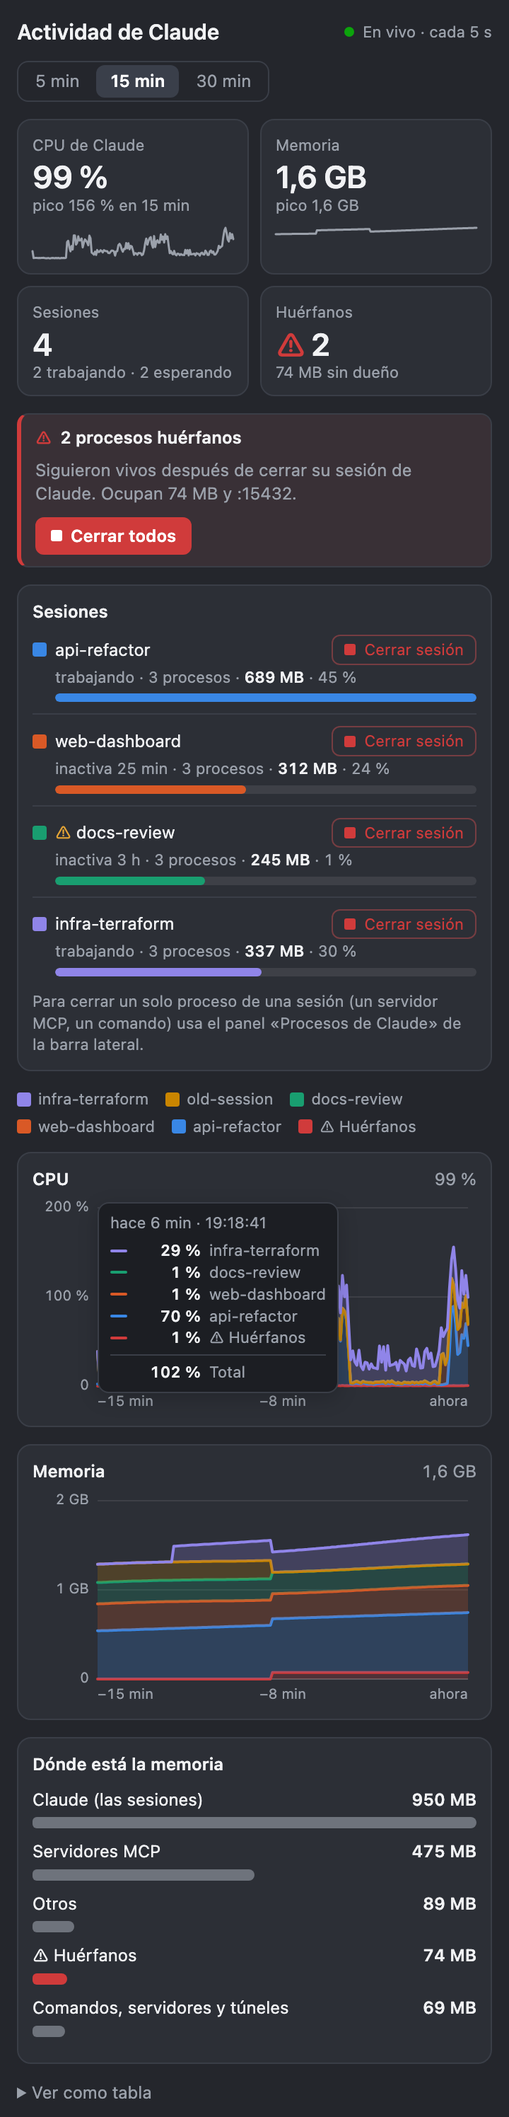
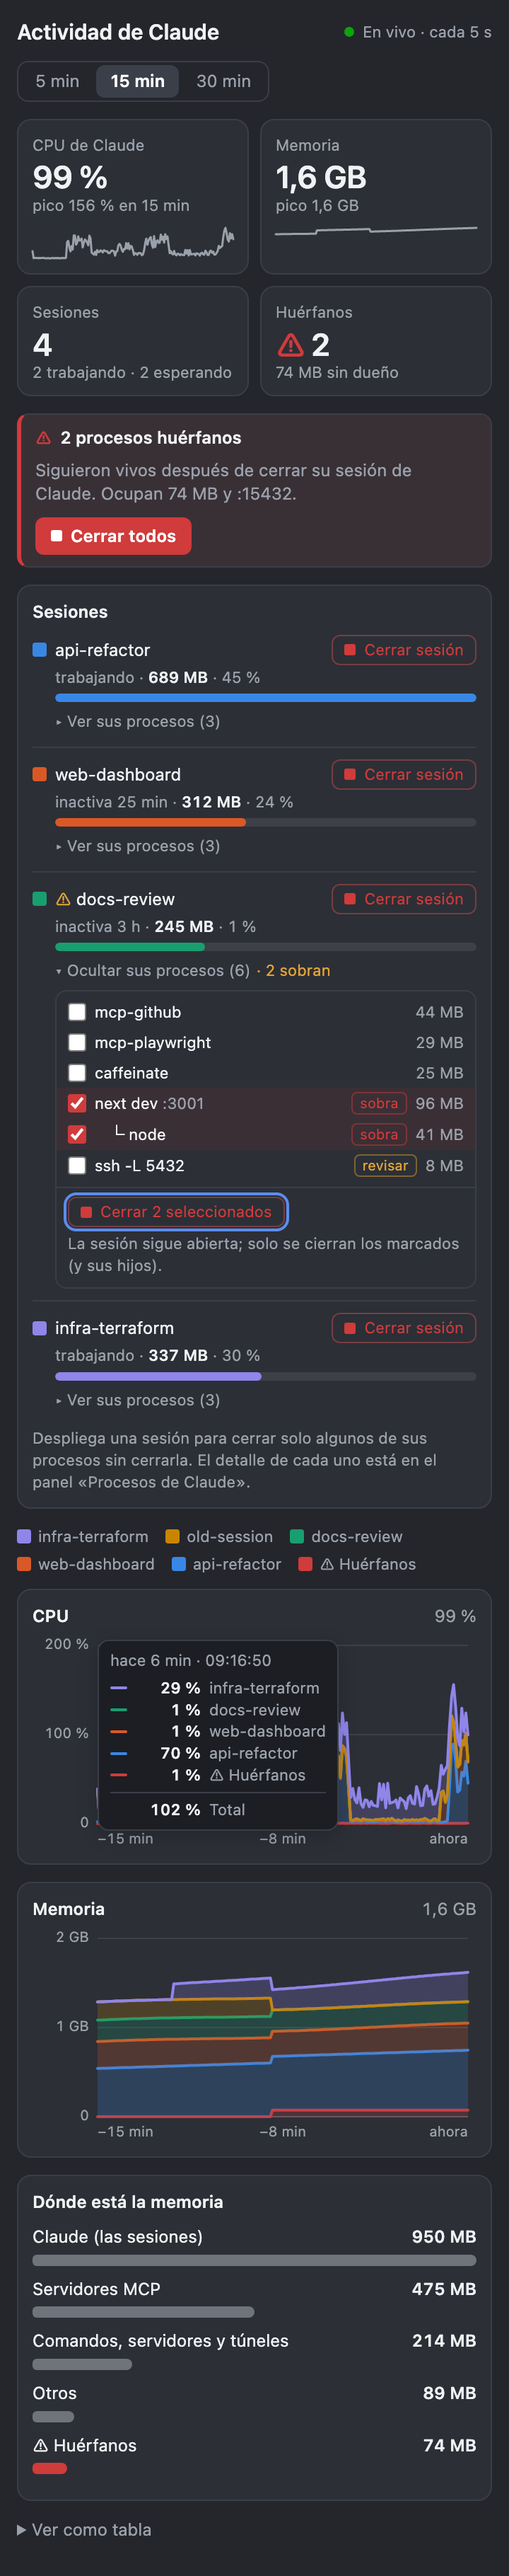
Close only some of a session's processes from the Actividad panel
- Each session in the charts panel can expand its process list, with a
  checkbox per process and "sobra"/"revisar" tags; the selected ones (and
  their children) are closed after an in-place confirmation, and the
  session stays open.
- "Marcar los que sobran" ticks the processes nothing uses, in both panels.
- README screenshot and docs; version 0.3.0.

diff --git a/src/graficas.ts b/src/graficas.ts
@@ -14,6 +14,7 @@
 // vecinos, y los huérfanos llevan siempre ⚠ y su nombre. En claro, aguamarina y amarillo quedan
 // bajo 3:1 contra el fondo: por eso hay leyenda siempre y vista de tabla.
 import {
+  confirmarDeSesion,
   confirmarForzar,
   confirmarHuerfanos,
   confirmarSesion,
@@ -38,7 +39,7 @@ import {
   type Medida,
   type Serie
 } from './series'
-import type { Foto, Historial, Muestra, MuestraSesion, Sesion } from './tipos'
+import type { Foto, Historial, Muestra, MuestraSesion, Proceso, Sesion } from './tipos'
 
 const RANGOS = [5, 15, 30] as const
 const CLAVE_RANGO = 'graficas.rango'
@@ -57,6 +58,11 @@ let cerrando: string | null = null
 let hecho: Hecho | null = null
 /** El `data-foco` que debe quedar enfocado después del próximo repintado. */
 let enfocarDespues: string | null = null
+/** El botón que abrió la confirmación en curso: ahí vuelve el foco si se cancela. */
+let volverA: string | null = null
+/** Sesiones con su lista de procesos desplegada, y los procesos marcados en cada una (por pid). */
+const desplegadas = new Set<string>()
+const marcados = new Map<string, Set<number>>()
 
 // ---------------------------------------------------------------------------------------------
 // Estilos
@@ -153,6 +159,28 @@ th { font-weight: 600; color: var(--tinta-2); }
 .fila-sesion .aviso { color: var(--cuidado); }
 .fila-sesion + .fila-sesion { border-top: 1px solid var(--orca-border); padding-top: 8px; }
 .pie { font-size: 11px; color: var(--tinta-2); margin: 10px 0 0; }
+.desplegar {
+  font: inherit; font-size: 11px; color: var(--tinta-2); background: none; border: 0; border-radius: 4px;
+  padding: 2px 4px; margin: 4px 0 0 12px; cursor: pointer; display: inline-flex; gap: 4px; align-items: center;
+}
+.desplegar:hover { color: var(--tinta); background: var(--orca-accent); }
+.desplegar:focus-visible { outline: 2px solid var(--orca-ring); outline-offset: 1px; }
+.desplegar .sobran { color: var(--cuidado); }
+.procs { margin: 4px 0 0 16px; border: 1px solid var(--orca-border); border-radius: 8px; padding: 4px 0; }
+.proc { display: flex; align-items: center; gap: 6px; padding: 3px 8px; font-size: 11px; cursor: pointer; }
+.proc:hover { background: var(--orca-accent); }
+.proc.marcado { background: color-mix(in srgb, var(--peligro) 9%, transparent); }
+.proc input { margin: 0; flex: none; accent-color: var(--peligro); }
+.proc input:disabled + span { opacity: 0.6; }
+.proc .pnombre { flex: 1; min-width: 0; overflow: hidden; text-overflow: ellipsis; white-space: nowrap; }
+.proc .pnombre small { color: var(--tinta-2); font-size: 11px; }
+.proc .pmem { color: var(--tinta-2); font-variant-numeric: tabular-nums; white-space: nowrap; }
+.etiqueta { font-size: 10px; line-height: 14px; padding: 0 5px; border-radius: 4px; border: 1px solid; white-space: nowrap; flex: none; }
+.etiqueta.cerrar { color: var(--peligro); border-color: color-mix(in srgb, var(--peligro) 45%, transparent); }
+.etiqueta.revisar { color: var(--cuidado); border-color: color-mix(in srgb, var(--cuidado) 45%, transparent); }
+.procs .botones { padding: 6px 8px 2px; margin-top: 4px; border-top: 1px solid var(--orca-border); }
+.procs .ayuda { font-size: 11px; color: var(--tinta-2); padding: 2px 8px 4px; margin: 0; }
+.procs + .caja, .procs + .cerrando { margin-left: 16px; }
 .caja {
   border: 1px solid var(--orca-border); border-left: 3px solid var(--tinta-2); border-radius: 8px;
   padding: 8px 10px; margin-top: 8px; background: var(--superficie); font-size: 12px; overflow-wrap: anywhere;
@@ -585,7 +613,7 @@ function pintarSesiones(ultima: Muestra | undefined, colores: Record<string, num
     el(
       'p',
       { class: 'pie' },
-      'Para cerrar un solo proceso de una sesión (un servidor MCP, un comando) usa el panel «Procesos de Claude» de la barra lateral.'
+      'Despliega una sesión para cerrar solo algunos de sus procesos sin cerrarla. El detalle de cada uno está en el panel «Procesos de Claude».'
     )
   )
   raiz.sesiones.replaceChildren(...hijos)
@@ -619,12 +647,100 @@ function filaSesion(x: Sesion, enVivo: MuestraSesion | undefined, colores: Recor
     el(
       'div',
       { class: 'sub' },
-      `${estadoCorto(x, Date.now())} · ${plural(x.procesos.length, 'proceso', 'procesos')} · `,
+      // Cuántos procesos lo dice «Ver sus procesos (N)» justo debajo.
+      `${estadoCorto(x, Date.now())} · ${x.procesos.length ? '' : 'sin procesos · '}`,
       el('b', {}, memoria(mem)),
       ` · ${pct(cpu)}`
     ),
     el('div', { class: 'pista' }, el('div', { style: `width:${Math.min(1, mem / max) * 100}%;background:${c}` })),
+    x.procesos.length ? desplegar(x, clave) : null,
+    x.procesos.length && desplegadas.has(clave) ? listaProcesos(x, clave, home) : null,
     accion(clave)
+  )
+}
+
+/** «▸ Ver sus procesos (11) · 2 sobran»: abre o cierra la lista de procesos de la sesión. */
+function desplegar(x: Sesion, clave: string): HTMLElement {
+  const abierta = desplegadas.has(clave)
+  const sobran = x.procesos.filter((p) => p.veredicto === 'cerrar').length
+  const b = el(
+    'button',
+    { type: 'button', class: 'desplegar', 'aria-expanded': String(abierta), 'data-foco': `ver-${clave}` },
+    `${abierta ? '▾ Ocultar' : '▸ Ver'} sus procesos (${x.procesos.length})`,
+    sobran ? el('span', { class: 'sobran' }, `· ${sobran} ${sobran === 1 ? 'sobra' : 'sobran'}`) : null
+  )
+  b.addEventListener('click', () => {
+    if (abierta) desplegadas.delete(clave)
+    else desplegadas.add(clave)
+    pintar()
+  })
+  return b
+}
+
+/** El veredicto de cada proceso, en palabras: «sobra» no le sirve a nadie, «revisar» decide tú. */
+const ETIQUETA: Partial<Record<Proceso['veredicto'], string>> = { cerrar: 'sobra', revisar: 'revisar' }
+
+/** Los procesos de la sesión con una casilla cada uno, para cerrar solo esos y dejar la sesión. */
+function listaProcesos(x: Sesion, clave: string, home: string): HTMLElement {
+  const vivos = new Set(x.procesos.map((p) => p.pid))
+  const marc = new Set([...(marcados.get(clave) ?? [])].filter((pid) => vivos.has(pid)))
+  marcados.set(clave, marc)
+  const elegidos = x.procesos.filter((p) => marc.has(p.pid))
+  const sobran = x.procesos.filter((p) => p.veredicto === 'cerrar')
+  // Mientras se pregunta o se cierra, la selección no cambia: es la que se va a cerrar.
+  const bloqueada = cerrando !== null || pendiente?.origen === clave
+  const filas = x.procesos.map((p) => {
+    const id = `p-${p.pid}`
+    const casilla = el('input', { type: 'checkbox', id, 'data-foco': id })
+    casilla.checked = marc.has(p.pid)
+    casilla.disabled = bloqueada
+    casilla.addEventListener('change', () => {
+      if (hecho?.origen === clave) hecho = null
+      if (casilla.checked) marc.add(p.pid)
+      else marc.delete(p.pid)
+      pintar()
+    })
+    const tag = ETIQUETA[p.veredicto]
+    return el(
+      'label',
+      { class: `proc${marc.has(p.pid) ? ' marcado' : ''}`, for: id, title: `${p.motivo}\n${p.comando}` },
+      casilla,
+      el(
+        'span',
+        { class: 'pnombre', style: p.nivel > 1 ? `padding-left:${(p.nivel - 1) * 10}px` : '' },
+        p.nivel > 1 ? '└ ' : '',
+        p.nombre,
+        p.puertos.length ? el('small', {}, ` ${puertos(p.puertos)}`) : null
+      ),
+      tag ? el('span', { class: `etiqueta ${p.veredicto}` }, tag) : null,
+      el('span', { class: 'pmem' }, memoria(p.rssKb))
+    )
+  })
+  const todasSobran = sobran.length > 0 && sobran.every((p) => marc.has(p.pid)) && marc.size === sobran.length
+  return el(
+    'div',
+    { class: 'procs', role: 'group', 'aria-label': `Procesos de ${nombreSesion(x, home)}` },
+    ...filas,
+    activo(clave)
+      ? null
+      : el(
+          'div',
+          { class: 'botones' },
+          boton(
+            elegidos.length ? `Cerrar ${plural(elegidos.length, 'seleccionado', 'seleccionados')}` : 'Cerrar seleccionados',
+            'suave',
+            () => pedir(confirmarDeSesion(x, elegidos, home), `cerrar-sel-${clave}`),
+            { foco: `cerrar-sel-${clave}`, detener: true, deshabilitado: !elegidos.length || cerrando !== null }
+          ),
+          sobran.length && !todasSobran
+            ? boton(`Marcar los que sobran (${sobran.length})`, 'fantasma', () => {
+                marcados.set(clave, new Set(sobran.map((p) => p.pid)))
+                enfocarDespues = `cerrar-sel-${clave}`
+                pintar()
+              }, { foco: `marcar-${clave}` })
+            : null
+        ),
+    activo(clave) ? null : el('p', { class: 'ayuda' }, 'La sesión sigue abierta; solo se cierran los marcados (y sus hijos).')
   )
 }
 
@@ -774,10 +890,11 @@ function activo(origen: string): boolean {
   return pendiente?.origen === origen || cerrando === origen || hecho?.origen === origen
 }
 
-function pedir(p: Pendiente | null): void {
+function pedir(p: Pendiente | null, desde?: string): void {
   if (!p) return
   hecho = null
   pendiente = p
+  volverA = desde ?? null
   // El foco va a la opción que no cierra nada, como en los diálogos de macOS.
   enfocarDespues = `no-${p.origen}`
   pintar()
@@ -795,6 +912,7 @@ async function ejecutar(p: Pendiente): Promise<void> {
     )
     foto = r.foto
     hecho = { origen: p.origen, titulo: p.hecho, lista: r.resultados }
+    marcados.delete(p.origen)
   } catch (error) {
     hecho = { origen: p.origen, titulo: p.hecho, lista: [], error: mensaje(error) }
   } finally {
@@ -821,7 +939,7 @@ function confirmacion(p: Pendiente): HTMLElement {
         'fantasma',
         () => {
           pendiente = null
-          enfocarDespues = p.origen === 'huerfanos' ? 'cerrar-huerfanos' : `cerrar-${p.origen}`
+          enfocarDespues = volverA ?? (p.origen === 'huerfanos' ? 'cerrar-huerfanos' : `cerrar-${p.origen}`)
           pintar()
         },
         { foco: `no-${p.origen}` }

diff --git a/src/panel.test.tsx b/src/panel.test.tsx
@@ -106,6 +106,30 @@ test('cerrar una sesión pregunta dentro de su tarjeta', async () => {
   await view.unmount()
 })
 
+test('cerrar solo los procesos que sobran deja la sesión abierta', async () => {
+  const foto = fotoDePrueba()
+  const s = foto.sesiones[0]
+  const sobra = s.procesos.find((p) => p.nivel === 1 && p.rol !== 'mcp') ?? s.procesos[0]
+  const conSobra: Foto = {
+    ...foto,
+    sesiones: [{ ...s, procesos: s.procesos.map((p) => (p.pid === sobra.pid ? { ...p, veredicto: 'cerrar' as const } : p)) }]
+  }
+  const pedidos: Pedido[] = []
+  const view = await mount(panel, { host: hostCon(conSobra, pedidos) })
+  await view.toggle({ type: 'Collapsible' })
+  await view.press({ text: 'Marcar los que sobran' })
+  await view.press({ text: 'Cerrar 1 seleccionado' })
+  const tarjeta = texto(buscar(view.tree(), 'Collapsible'))
+  assert.ok(tarjeta.includes('¿Cerrar 1 proceso de «mi-app-c7»?'))
+  assert.ok(tarjeta.includes('La sesión sigue abierta.'))
+  await view.press({ text: 'Cerrar 1 proceso' })
+  assert.equal(pedidos.length, 1)
+  assert.deepEqual(pedidos[0].objetivos.map((o) => o.pid), [sobra.pid], 'solo el que sobra, no la sesión')
+  assert.ok(!pedidos[0].objetivos.some((o) => o.pid === s.pid))
+  assert.deepEqual(view.errors, [])
+  await view.unmount()
+})
+
 test('cancelar no cierra nada', async () => {
   const pedidos: Pedido[] = []
   const view = await mount(panel, { host: hostCon(fotoDePrueba(), pedidos) })

diff --git a/src/panel.tsx b/src/panel.tsx
@@ -245,6 +245,7 @@ function TarjetaSesion(props: { sesion: Sesion; home: string; filtrar: boolean; 
   const elegidos = s.procesos.filter((p) => marcados.has(String(p.pid)))
   const ahora = read(foto)?.tomadaEn ?? Date.now()
   const aviso = tieneAviso(s)
+  const sobran = s.procesos.filter((p) => p.veredicto === 'cerrar')
   // Con una confirmación pendiente la tarjeta se queda abierta: es donde está la pregunta.
   const abierta = (read(abiertas)[clave] ?? false) || activo(clave)
   return (
@@ -303,6 +304,16 @@ function TarjetaSesion(props: { sesion: Sesion; home: string; filtrar: boolean; 
             >
               {elegidos.length ? `Cerrar ${plural(elegidos.length, 'seleccionado', 'seleccionados')}` : 'Cerrar seleccionados'}
             </Button>
+            {sobran.length ? (
+              <Button
+                size="sm"
+                variant="ghost"
+                disabled={ocupado}
+                onPress={() => update(seleccion, (sel) => ({ ...sel, [clave]: sobran.map((p) => String(p.pid)) }))}
+              >
+                Marcar los que sobran
+              </Button>
+            ) : null}
             <Button
               size="sm"
               tone="danger"

diff --git a/README.md b/README.md
@@ -63,6 +63,10 @@ isn't Claude's.
   session has a *Cerrar sesión* button, and safe orphans get a *Cerrar todos*
   notice. Both ask the same confirmation as the main panel, right where you
   clicked.
+- **Close only some processes and keep the session**: expand a session, tick
+  the processes you want gone (or *Marcar los que sobran* to tick the ones
+  nothing uses), and close just those. Their children go with them; the
+  session stays open.
 
 ### Find what outlived its session
 - **Orphans**: processes still running after their session ended, with the
